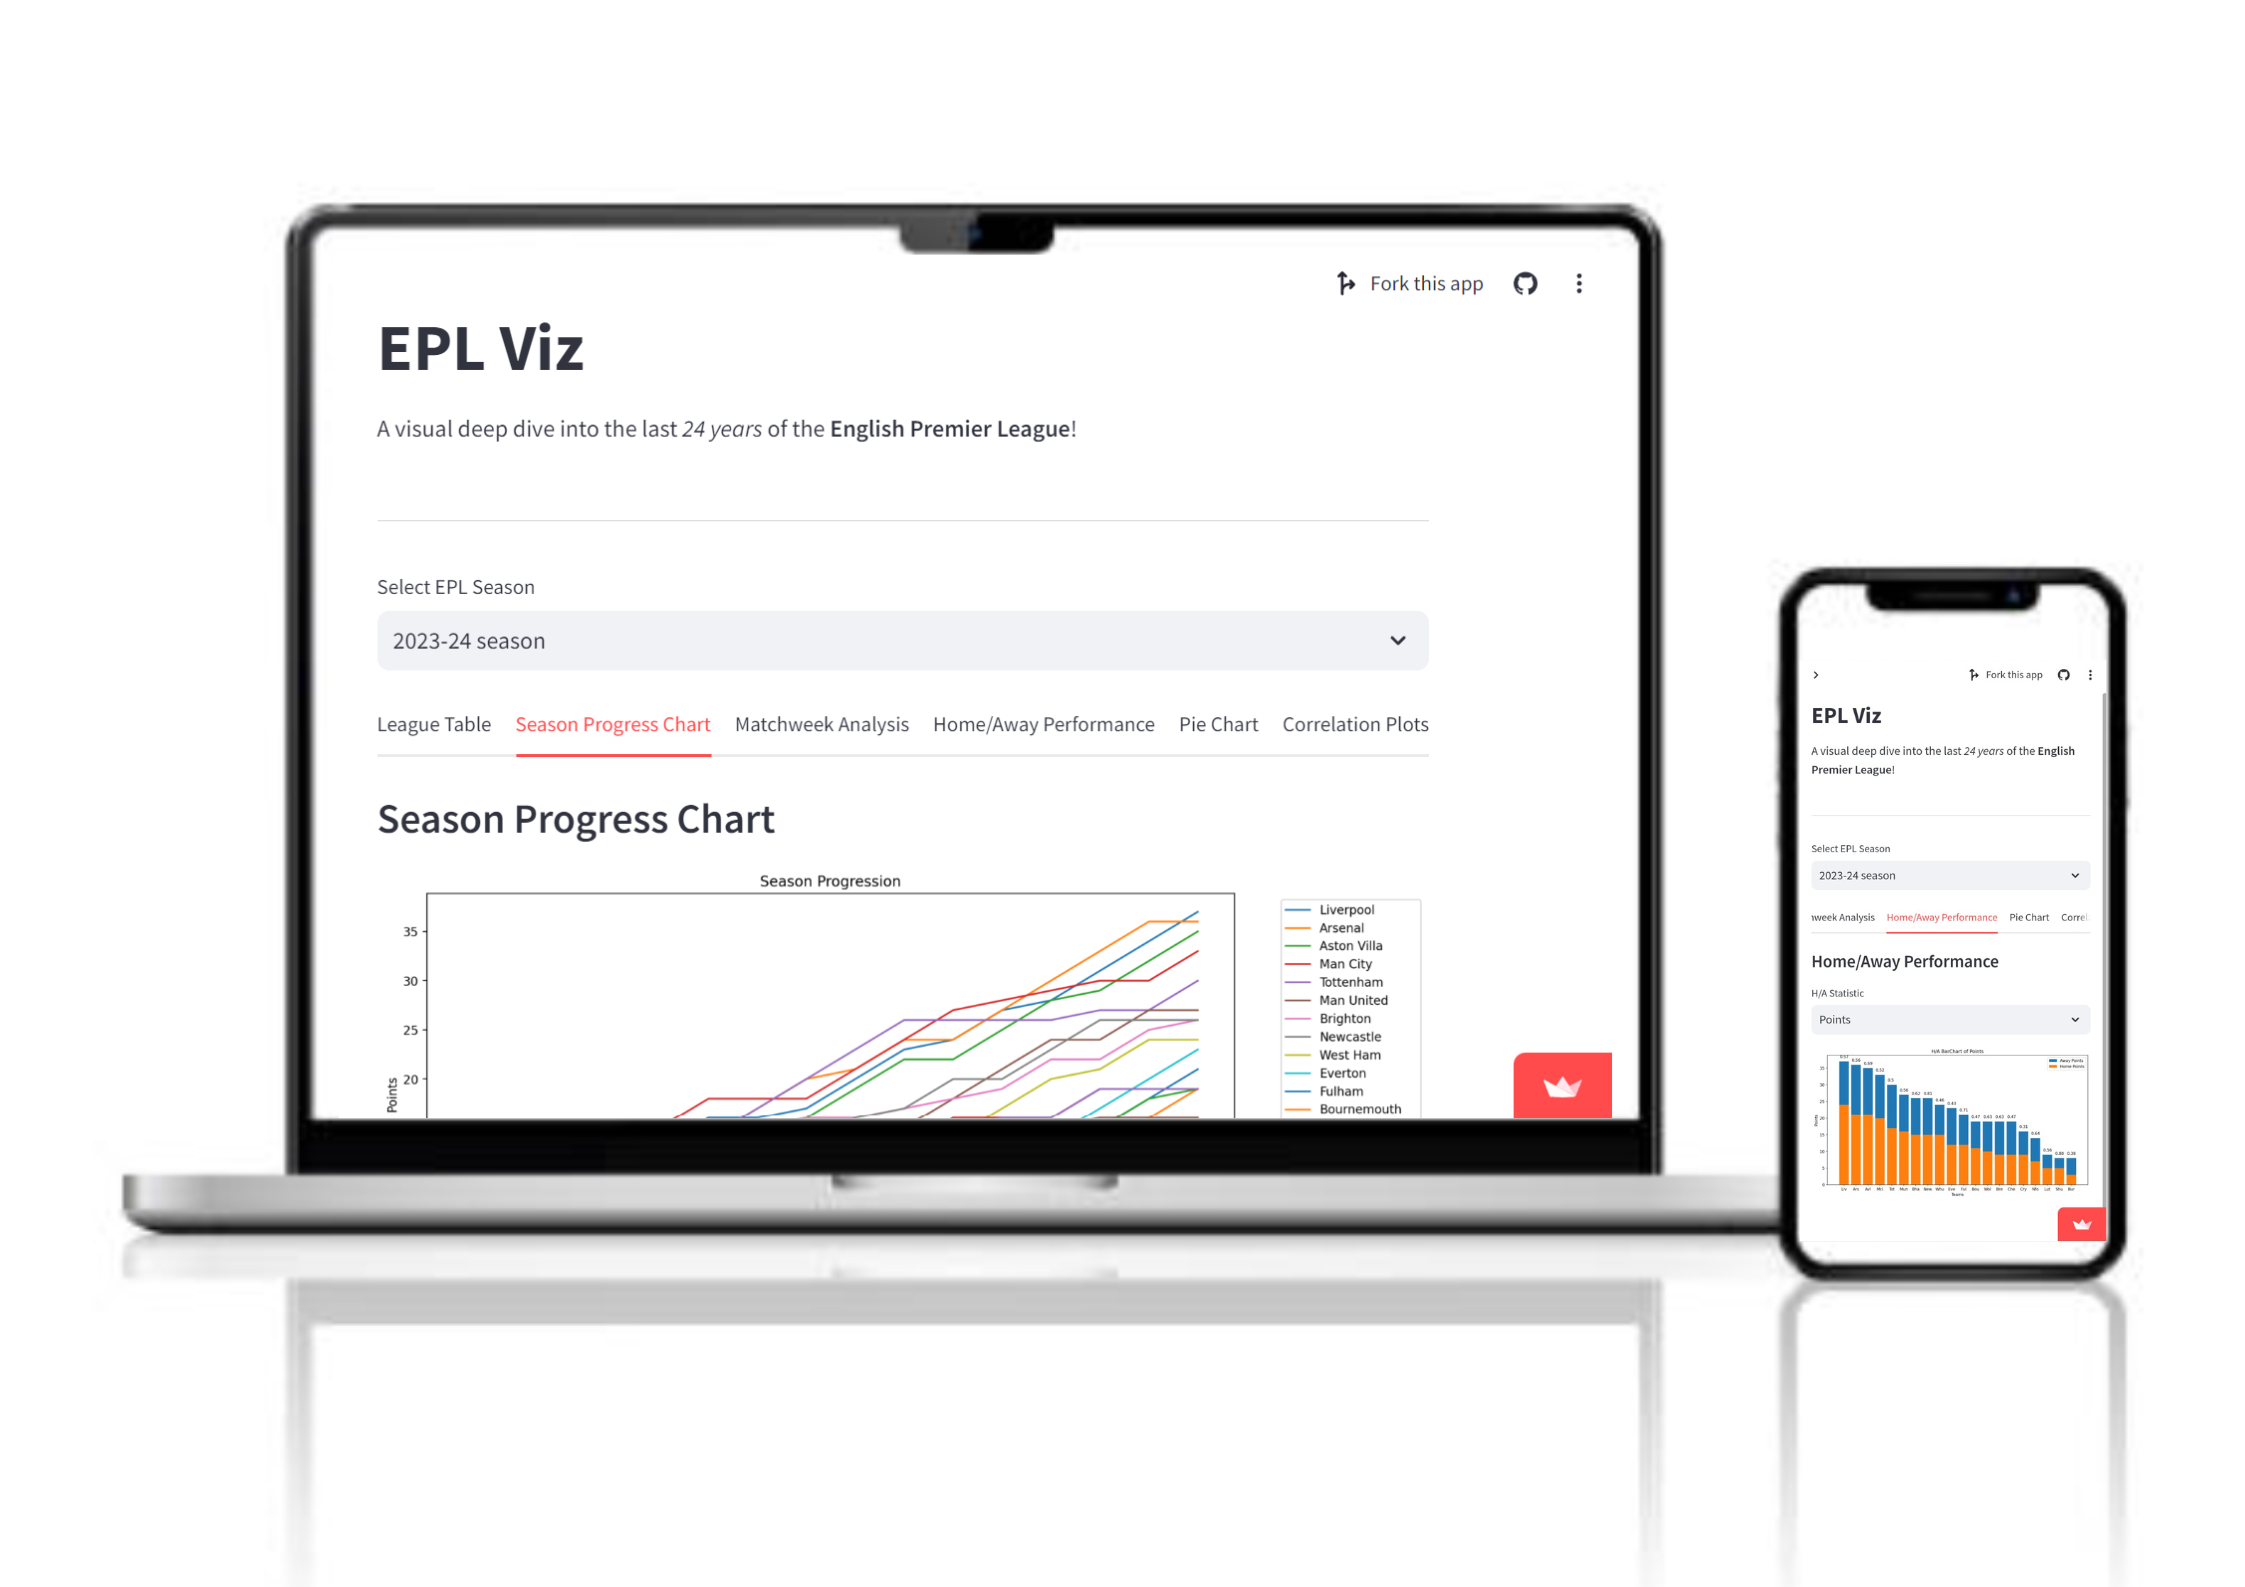
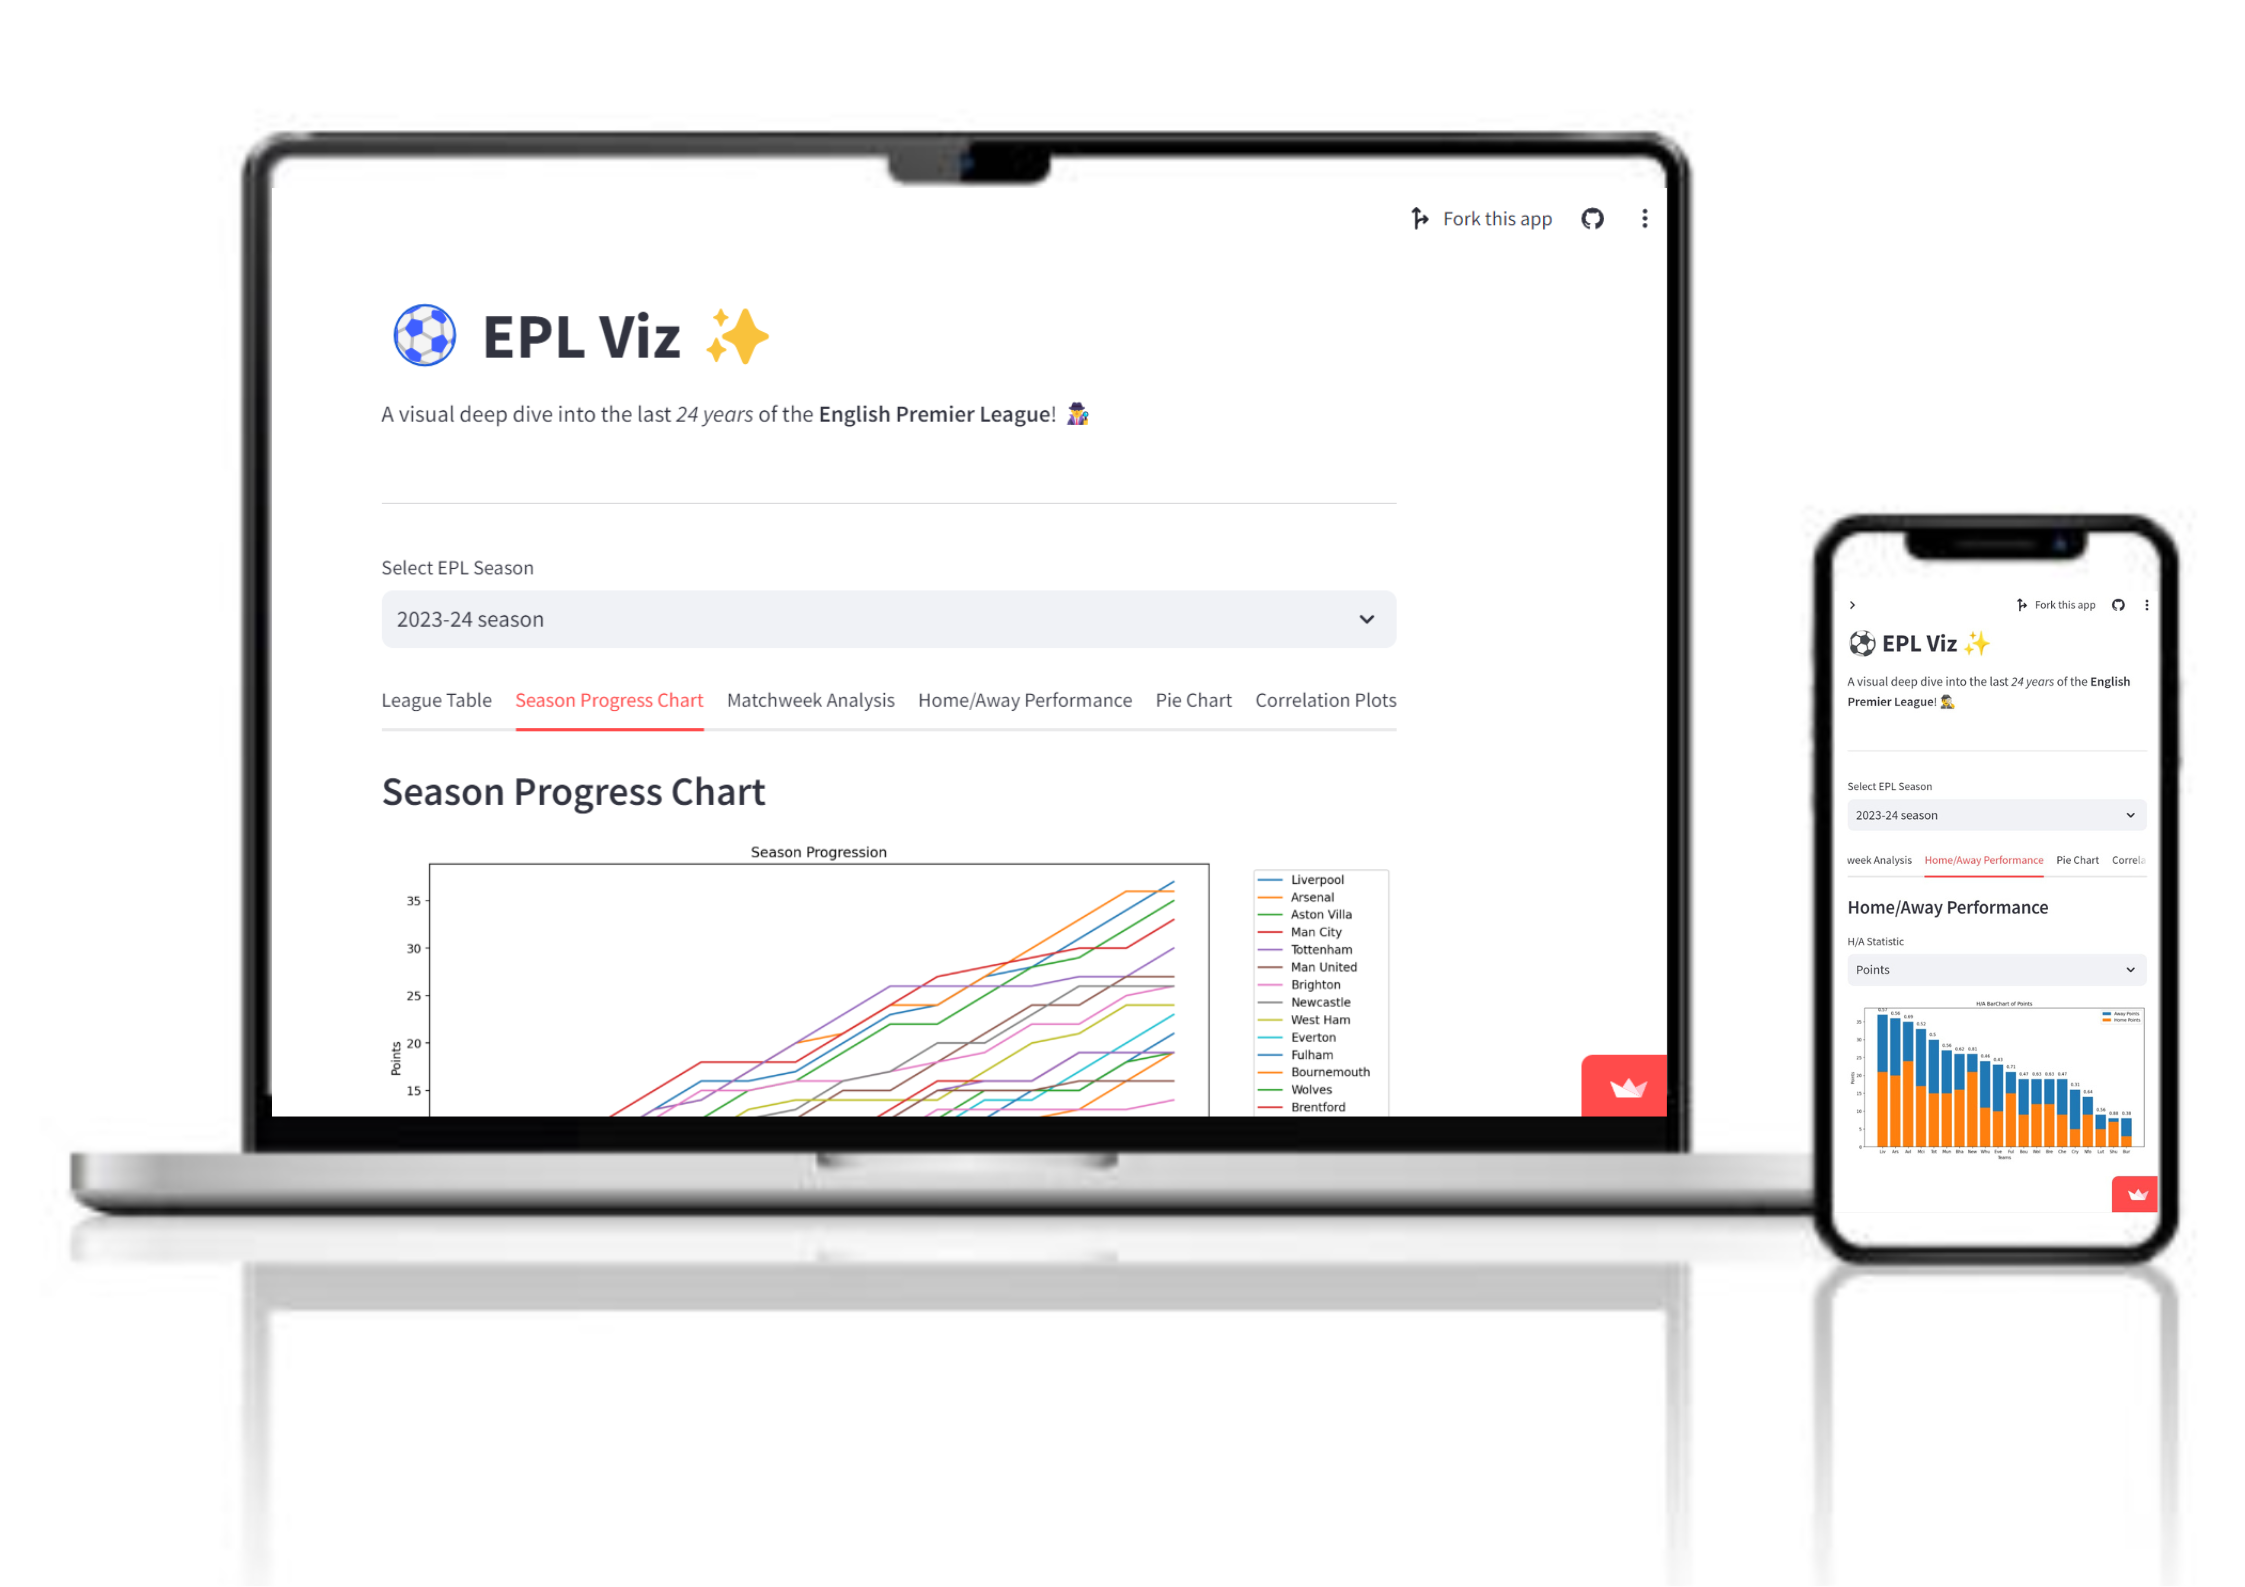
Updated epl2324 data

Changed region(s): [[0.0312, 0.0618, 0.9978, 0.9572], [0.343, 0.5249, 0.4053, 0.5866], [0.1871, 0.5558, 0.2183, 0.5866]]

diff --git a/app.py b/app.py
@@ -401,7 +401,7 @@ data.append(pd.read_csv('data/epl1920.csv'))
 data.append(pd.read_csv('data/epl2021.csv'))
 data.append(pd.read_csv('data/epl2122.csv'))
 data.append(pd.read_csv('data/epl2223.csv'))
-data.append(pd.read_csv('data/epl2324.csv'))
+data.append(pd.read_csv('data/E0.csv'))
 
 # for i in range(24):
 #     data[i].to_csv('engg_data/epl' + str("{:02d}".format(i)) + str("{:02d}".format(i+1)) + '.csv', index=False)
@@ -496,7 +496,7 @@ def plot_pie(stat, statname):
 def plot_bar(stat, hstat, statname):
     sorted_stat = stat.sort_values(ascending=False)
     team_labels = [team_abrev[i] for i in sorted_stat.index]
-    sorted_hstat = hstat.loc[sorted_stat.index]
+    sorted_hstat = hstat.sort_values(ascending=False)
 
     hlabel = 'Home ' + statname
     alabel = 'Away ' + statname
@@ -583,7 +583,7 @@ def plot_scatter(data, stat1, stat2, statname1, statname2):
 
 # Web app code
     
-st.set_page_config(page_icon="img/pl.jpg", page_title="EPL Viz")
+st.set_page_config(page_icon="img/pl.jpg", page_title="EPL Viz", layout="wide")
 
 st.write("""
          # ⚽ EPL Viz ✨
@@ -592,14 +592,14 @@ st.write("""
 st.write('---')
 
 st.sidebar.header('Links')
-# st.sidebar.link_button('GitHub Repo', 'https://github.com/saranggalada/EDA-English-Premier-League-24yr')
-# st.sidebar.link_button('Data Source', 'https://www.football-data.co.uk/')
-st.sidebar.write(
-        "[![GitHub](https://github.com/saranggalada/EDA-English-Premier-League-24yr/blob/main/img/github.png)]"
-        "(https://github.com/saranggalada/EDA-English-Premier-League-24yr)")
-st.sidebar.write(
-        "[![Data Source](https://github.com/saranggalada/EDA-English-Premier-League-24yr/blob/main/img/database.png)]"
-        "(https://www.football-data.co.uk/)")
+st.sidebar.link_button('GitHub Repo', 'https://github.com/saranggalada/EDA-English-Premier-League-24yr')
+st.sidebar.link_button('Data Source', 'https://www.football-data.co.uk/')
+# st.sidebar.write(
+#         "[![GitHub](https://github.com/saranggalada/EDA-English-Premier-League-24yr/blob/main/img/github.png)]"
+#         "(https://github.com/saranggalada/EDA-English-Premier-League-24yr)")
+# st.sidebar.write(
+#         "[![Data Source](https://github.com/saranggalada/EDA-English-Premier-League-24yr/blob/main/img/database.png)]"
+#         "(https://github.com/saranggalada/EDA-English-Premier-League-24yr)")
 # st.sidebar.link_button('Author', 'https://www.linkedin.com/in/saranggalada')
 st.sidebar.markdown("---\n*Copyright (c) 2024: Sarang Galada*")
 
